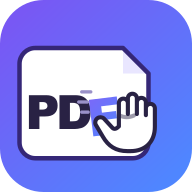
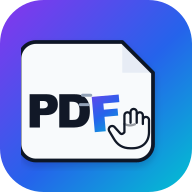
Apply Prism Ink branding

diff --git a/public/index.html b/public/index.html
@@ -8,15 +8,15 @@
 <link rel="icon" type="image/png" sizes="192x192" href="/icon-192.png" />
 <link rel="apple-touch-icon" href="/apple-touch-icon.png" />
 <link rel="manifest" href="/manifest.webmanifest" />
-<meta name="theme-color" content="#6A4CF0" />
+<meta name="theme-color" content="#5B3FD6" />
 <meta name="mobile-web-app-capable" content="yes" />
 <meta name="apple-mobile-web-app-capable" content="yes" />
 <meta name="apple-mobile-web-app-title" content="Signet" />
 <meta name="apple-mobile-web-app-status-bar-style" content="default" />
 <link href="./vendor/fonts.css" rel="stylesheet">
 <style>
-:root{--accent:#6A4CF0;--grad:linear-gradient(135deg,#6A4CF0,#4F86FF);--ink:#191b1f;--ink2:#24262c;--sub:#5b6068;--sub2:#7c8089;--sub3:#9aa0a8;
---line:#e7e8ec;--line2:#e2e3e8;--bg:#ecebef;--panel:#f7f7f9;--chip:#f2f2f5;
+:root{--accent:#5B3FD6;--grad:linear-gradient(135deg,#6D28D9 0%,#2563EB 58%,#0891B2 100%);--ink:#111827;--ink2:#1F2937;--sub:#566273;--sub2:#718096;--sub3:#94A3B8;
+--line:#DDE2EC;--line2:#D5DCE8;--bg:#E9EEF6;--panel:#F5F7FB;--chip:#EEF2F7;
 --good:#17936a;--warn:#b5760b;--bad:#dc2b3b;--badbg:#fbf5f5;--badline:#f0d9d9;}
 *{box-sizing:border-box;}
 [hidden]{display:none !important;}
@@ -26,7 +26,7 @@ button{font:inherit;cursor:pointer;}
 input,select,textarea{font:inherit;}
 .btn{height:36px;padding:0 14px;border:1px solid var(--line2);border-radius:8px;background:#fff;color:var(--ink2);font-size:13px;font-weight:600;display:inline-flex;align-items:center;gap:7px;}
 .btn:hover{background:#f7f7f9;}
-.btn.primary{background:var(--grad);border-color:transparent;color:#fff;box-shadow:0 1px 2px rgba(106,76,240,.35);}
+.btn.primary{background:var(--grad);border-color:transparent;color:#fff;box-shadow:0 1px 2px rgba(37,99,235,.32);}
 .btn.primary:hover{filter:brightness(1.06);}
 .btn.danger{background:var(--bad);border-color:var(--bad);color:#fff;}
 .btn.danger:hover{filter:brightness(1.06);}
@@ -39,7 +39,7 @@ input[type=text],input[type=email],input[type=number],input[type=password],selec
 .hint{font-size:12px;color:var(--sub2);line-height:1.5;}
 
 #loginScreen{position:fixed;inset:0;z-index:70;min-height:100vh;display:flex;flex-direction:column;align-items:center;justify-content:center;gap:20px;
-  background:radial-gradient(120% 120% at 15% 0%,#3a2a72 0%,#201a3a 45%,#14111f 100%);}
+  background:radial-gradient(120% 120% at 15% 0%,#4C1D95 0%,#172554 48%,#0F172A 100%);}
 #loginScreen[hidden]{display:none;}
 #loginScreen .logomark.big{margin-bottom:0;}
 #loginScreen .box{position:relative;background:#fff;padding:32px;border-radius:16px;width:320px;text-align:center;box-shadow:0 24px 60px rgba(0,0,0,.4);}
@@ -57,7 +57,7 @@ header.topbar{height:56px;flex:0 0 56px;display:flex;align-items:center;gap:14px
 .logomark{background:var(--grad);display:inline-flex;align-items:center;justify-content:center;flex:0 0 auto;border-radius:7px;}
 .logomark svg{width:66%;height:66%;display:block;}
 .logomark.hdr{width:26px;height:26px;}
-.logomark.big{width:64px;height:64px;border-radius:16px;box-shadow:0 10px 26px rgba(106,76,240,.4);}
+.logomark.big{width:64px;height:64px;border-radius:16px;box-shadow:0 10px 26px rgba(37,99,235,.36);}
 .vdiv{width:1px;height:24px;background:var(--line);}
 .doctitle{font-size:13.5px;font-weight:600;color:var(--ink2);white-space:nowrap;overflow:hidden;text-overflow:ellipsis;max-width:320px;}
 .chip{font-size:11px;color:var(--sub3);background:var(--chip);padding:2px 8px;border-radius:5px;font-weight:600;}
@@ -67,7 +67,7 @@ header.topbar{height:56px;flex:0 0 56px;display:flex;align-items:center;gap:14px
 nav.rail{flex:0 0 60px;background:#fff;border-right:1px solid var(--line);display:flex;flex-direction:column;align-items:center;gap:4px;padding:10px 0;overflow-y:auto;}
 nav.rail .railbtn{width:44px;height:44px;border:none;border-radius:9px;color:var(--sub);background:transparent;display:flex;align-items:center;justify-content:center;}
 nav.rail .railbtn:hover{background:var(--chip);}
-nav.rail .railbtn.active{background:var(--grad);color:#fff;box-shadow:0 2px 9px rgba(106,76,240,.34);}
+nav.rail .railbtn.active{background:var(--grad);color:#fff;box-shadow:0 2px 9px rgba(37,99,235,.30);}
 nav.rail .railbtn svg{width:22px;height:22px;display:block;}
 nav.rail .raildiv{width:28px;height:1px;background:#eeeef1;margin:5px 0;}
 nav.rail .railbtn{position:relative;}
@@ -82,7 +82,7 @@ aside.thumbs .thead{font-size:11px;font-weight:700;letter-spacing:.06em;text-tra
 .thumb{width:118px;border:none;background:transparent;padding:0;display:flex;flex-direction:column;align-items:center;gap:5px;}
 .thumb .card{width:118px;border:1px solid #dfe0e6;border-radius:3px;box-shadow:0 1px 3px rgba(0,0,0,.06);overflow:hidden;background:#fff;cursor:grab;}
 .thumb .card canvas{width:100%;display:block;}
-.thumb.current .card{box-shadow:0 0 0 2px var(--accent),0 2px 8px rgba(106,76,240,.2);}
+.thumb.current .card{box-shadow:0 0 0 2px var(--accent),0 2px 8px rgba(37,99,235,.18);}
 .thumb .lbl{font-size:11px;color:var(--sub3);font-weight:500;}
 .thumb.current .lbl{color:var(--accent);font-weight:700;}
 .addpages{width:118px;height:40px;margin:6px auto 0;border:1px dashed #d3d4db;border-radius:8px;background:#fbfbfc;font-size:11.5px;color:var(--sub);}
@@ -126,14 +126,14 @@ aside.props{flex:0 0 300px;background:#fff;border-left:1px solid var(--line);ove
 .tabbtns{display:flex;gap:6px;margin-bottom:14px;}
 .tabbtns button{flex:1;background:var(--chip);border:none;padding:8px 0;border-radius:7px;font-size:12.5px;}
 .tabbtns button.active{background:var(--ink);color:#fff;}
-.marker{position:absolute;border:1.5px dashed var(--accent);background:rgba(106,76,240,.1);font-size:9px;color:var(--accent);display:flex;align-items:center;justify-content:center;cursor:pointer;}
+.marker{position:absolute;border:1.5px dashed var(--accent);background:rgba(91,63,214,.1);font-size:9px;color:var(--accent);display:flex;align-items:center;justify-content:center;cursor:pointer;}
 .textmarker{font-family:Helvetica,Arial,sans-serif;cursor:text;min-width:6px;z-index:3;}
 .edittext{position:absolute;white-space:pre-wrap;overflow:hidden;outline:none;line-height:1.05;font-family:Helvetica,Arial,sans-serif;color:#0d0d14;cursor:text;box-sizing:border-box;padding:0 1px;z-index:3;}
 .edittext:focus{box-shadow:0 0 0 1.5px var(--accent);background:#fff !important;color:#0d0d14 !important;}
 .x{position:absolute;width:16px;height:16px;border-radius:50%;border:none;background:var(--bad);color:#fff;font-size:10px;line-height:1;z-index:6;padding:0;}
 .marker .x{top:-8px;right:-8px;}
-.selframe{position:absolute;border:1px dashed var(--accent);background:rgba(106,76,240,.05);cursor:move;z-index:4;}
-.selframe.sel{border:2px solid var(--accent);background:rgba(106,76,240,.1);}
+.selframe{position:absolute;border:1px dashed var(--accent);background:rgba(91,63,214,.05);cursor:move;z-index:4;}
+.selframe.sel{border:2px solid var(--accent);background:rgba(91,63,214,.1);}
 .selframe .rz{position:absolute;right:-6px;bottom:-6px;width:12px;height:12px;border-radius:50%;background:#fff;border:1.5px solid var(--accent);cursor:nwse-resize;z-index:7;}
 canvas#sigPad{border:1px solid var(--line2);border-radius:8px;cursor:crosshair;touch-action:none;background:#fbfbfc;width:100%;}
 
@@ -335,7 +335,7 @@ canvas#sigPad{border:1px solid var(--line2);border-radius:8px;cursor:crosshair;t
 <body>
 
 <div id="loginScreen" hidden>
-  <svg class="pdflogo" viewBox="0 0 340 120" fill="none" xmlns="http://www.w3.org/2000/svg" aria-hidden="true"><defs><linearGradient id="plg2" x1="185" y1="22" x2="275" y2="100" gradientUnits="userSpaceOnUse"><stop stop-color="#8A68FF"/><stop offset="1" stop-color="#4F86FF"/></linearGradient></defs><text x="5" y="88" font-family="'Hanken Grotesk',Arial,sans-serif" font-weight="800" font-size="88" letter-spacing="-4" fill="currentColor">PD</text><path d="M174 43h21M168 59h19M176 75h14" stroke="currentColor" stroke-width="5" stroke-linecap="round" opacity=".32"/><g transform="rotate(-7 229 61)"><text x="190" y="91" font-family="'Hanken Grotesk',Arial,sans-serif" font-weight="800" font-size="91" letter-spacing="-4" fill="url(#plg2)">F</text></g><g stroke="currentColor" stroke-width="6.5" stroke-linecap="round" stroke-linejoin="round"><path d="M257 69V45a7 7 0 0 1 14 0v15-22a7 7 0 0 1 14 0v22-16a7 7 0 0 1 14 0v21-11a7 7 0 0 1 14 0v27c0 21-13 32-32 32h-5c-16 0-26-7-34-20l-11-18a8 8 0 0 1 13-9z"/><path d="M255 62c8 4 17 4 25 0" opacity=".55"/></g></svg>
+  <svg class="pdflogo" viewBox="0 0 340 120" fill="none" xmlns="http://www.w3.org/2000/svg" aria-hidden="true"><defs><linearGradient id="plg2" x1="185" y1="22" x2="275" y2="100" gradientUnits="userSpaceOnUse"><stop stop-color="#7C3AED"/><stop offset="1" stop-color="#06B6D4"/></linearGradient></defs><text x="5" y="88" font-family="'Hanken Grotesk',Arial,sans-serif" font-weight="800" font-size="88" letter-spacing="-4" fill="currentColor">PD</text><path d="M174 43h21M168 59h19M176 75h14" stroke="currentColor" stroke-width="5" stroke-linecap="round" opacity=".32"/><g transform="rotate(-7 229 61)"><text x="190" y="91" font-family="'Hanken Grotesk',Arial,sans-serif" font-weight="800" font-size="91" letter-spacing="-4" fill="url(#plg2)">F</text></g><g stroke="currentColor" stroke-width="6.5" stroke-linecap="round" stroke-linejoin="round"><path d="M257 69V45a7 7 0 0 1 14 0v15-22a7 7 0 0 1 14 0v22-16a7 7 0 0 1 14 0v21-11a7 7 0 0 1 14 0v27c0 21-13 32-32 32h-5c-16 0-26-7-34-20l-11-18a8 8 0 0 1 13-9z"/><path d="M255 62c8 4 17 4 25 0" opacity=".55"/></g></svg>
   <div class="box">
     <button id="loginCancel" title="Close" aria-label="Close">&times;</button>
     <h1>Signet<span style="color:var(--accent)">.</span></h1>
@@ -350,7 +350,7 @@ canvas#sigPad{border:1px solid var(--line2);border-radius:8px;cursor:crosshair;t
   <header class="topbar">
     <button class="icon-btn mobile-only" id="pagesToggle" title="Pages" hidden>
       <svg viewBox="0 0 24 24" width="20" height="20" fill="none" stroke="currentColor" stroke-width="1.8" stroke-linecap="round" stroke-linejoin="round"><rect x="4" y="4" width="7" height="7" rx="1"/><rect x="13" y="4" width="7" height="7" rx="1"/><rect x="4" y="13" width="7" height="7" rx="1"/><rect x="13" y="13" width="7" height="7" rx="1"/></svg></button>
-    <div class="brand"><svg class="pdflogo" viewBox="0 0 340 120" fill="none" xmlns="http://www.w3.org/2000/svg" aria-label="PDF editor"><defs><linearGradient id="plg" x1="185" y1="22" x2="275" y2="100" gradientUnits="userSpaceOnUse"><stop stop-color="#8A68FF"/><stop offset="1" stop-color="#4F86FF"/></linearGradient></defs><text x="5" y="88" font-family="'Hanken Grotesk',Arial,sans-serif" font-weight="800" font-size="88" letter-spacing="-4" fill="currentColor">PD</text><path d="M174 43h21M168 59h19M176 75h14" stroke="currentColor" stroke-width="5" stroke-linecap="round" opacity=".32"/><g transform="rotate(-7 229 61)"><text x="190" y="91" font-family="'Hanken Grotesk',Arial,sans-serif" font-weight="800" font-size="91" letter-spacing="-4" fill="url(#plg)">F</text></g><g stroke="currentColor" stroke-width="6.5" stroke-linecap="round" stroke-linejoin="round"><path d="M257 69V45a7 7 0 0 1 14 0v15-22a7 7 0 0 1 14 0v22-16a7 7 0 0 1 14 0v21-11a7 7 0 0 1 14 0v27c0 21-13 32-32 32h-5c-16 0-26-7-34-20l-11-18a8 8 0 0 1 13-9z"/><path d="M255 62c8 4 17 4 25 0" opacity=".55"/></g></svg><span class="desktop-only" style="font-size:19px;font-weight:700;letter-spacing:-.01em">Signet<span style="color:var(--accent)">.</span></span></div>
+    <div class="brand"><svg class="pdflogo" viewBox="0 0 340 120" fill="none" xmlns="http://www.w3.org/2000/svg" aria-label="PDF editor"><defs><linearGradient id="plg" x1="185" y1="22" x2="275" y2="100" gradientUnits="userSpaceOnUse"><stop stop-color="#7C3AED"/><stop offset="1" stop-color="#06B6D4"/></linearGradient></defs><text x="5" y="88" font-family="'Hanken Grotesk',Arial,sans-serif" font-weight="800" font-size="88" letter-spacing="-4" fill="currentColor">PD</text><path d="M174 43h21M168 59h19M176 75h14" stroke="currentColor" stroke-width="5" stroke-linecap="round" opacity=".32"/><g transform="rotate(-7 229 61)"><text x="190" y="91" font-family="'Hanken Grotesk',Arial,sans-serif" font-weight="800" font-size="91" letter-spacing="-4" fill="url(#plg)">F</text></g><g stroke="currentColor" stroke-width="6.5" stroke-linecap="round" stroke-linejoin="round"><path d="M257 69V45a7 7 0 0 1 14 0v15-22a7 7 0 0 1 14 0v22-16a7 7 0 0 1 14 0v21-11a7 7 0 0 1 14 0v27c0 21-13 32-32 32h-5c-16 0-26-7-34-20l-11-18a8 8 0 0 1 13-9z"/><path d="M255 62c8 4 17 4 25 0" opacity=".55"/></g></svg><span class="desktop-only" style="font-size:19px;font-weight:700;letter-spacing:-.01em">Signet<span style="color:var(--accent)">.</span></span></div>
     <div class="vdiv desktop-only"></div>
     <div class="row desktop-only" style="min-width:0">
       <span class="doctitle" id="docTitleLbl">No document loaded</span>
@@ -586,7 +586,7 @@ canvas#sigPad{border:1px solid var(--line2);border-radius:8px;cursor:crosshair;t
     <div class="canvaswrap">
       <div class="canvasscroll" id="canvasScroll">
         <div class="empty-state" id="emptyState">
-          <svg class="pdflogo" viewBox="0 0 340 120" fill="none" xmlns="http://www.w3.org/2000/svg" aria-hidden="true"><defs><linearGradient id="plg3" x1="185" y1="22" x2="275" y2="100" gradientUnits="userSpaceOnUse"><stop stop-color="#8A68FF"/><stop offset="1" stop-color="#4F86FF"/></linearGradient></defs><text x="5" y="88" font-family="'Hanken Grotesk',Arial,sans-serif" font-weight="800" font-size="88" letter-spacing="-4" fill="currentColor">PD</text><path d="M174 43h21M168 59h19M176 75h14" stroke="currentColor" stroke-width="5" stroke-linecap="round" opacity=".32"/><g transform="rotate(-7 229 61)"><text x="190" y="91" font-family="'Hanken Grotesk',Arial,sans-serif" font-weight="800" font-size="91" letter-spacing="-4" fill="url(#plg3)">F</text></g><g stroke="currentColor" stroke-width="6.5" stroke-linecap="round" stroke-linejoin="round"><path d="M257 69V45a7 7 0 0 1 14 0v15-22a7 7 0 0 1 14 0v22-16a7 7 0 0 1 14 0v21-11a7 7 0 0 1 14 0v27c0 21-13 32-32 32h-5c-16 0-26-7-34-20l-11-18a8 8 0 0 1 13-9z"/><path d="M255 62c8 4 17 4 25 0" opacity=".55"/></g></svg>
+          <svg class="pdflogo" viewBox="0 0 340 120" fill="none" xmlns="http://www.w3.org/2000/svg" aria-hidden="true"><defs><linearGradient id="plg3" x1="185" y1="22" x2="275" y2="100" gradientUnits="userSpaceOnUse"><stop stop-color="#7C3AED"/><stop offset="1" stop-color="#06B6D4"/></linearGradient></defs><text x="5" y="88" font-family="'Hanken Grotesk',Arial,sans-serif" font-weight="800" font-size="88" letter-spacing="-4" fill="currentColor">PD</text><path d="M174 43h21M168 59h19M176 75h14" stroke="currentColor" stroke-width="5" stroke-linecap="round" opacity=".32"/><g transform="rotate(-7 229 61)"><text x="190" y="91" font-family="'Hanken Grotesk',Arial,sans-serif" font-weight="800" font-size="91" letter-spacing="-4" fill="url(#plg3)">F</text></g><g stroke="currentColor" stroke-width="6.5" stroke-linecap="round" stroke-linejoin="round"><path d="M257 69V45a7 7 0 0 1 14 0v15-22a7 7 0 0 1 14 0v22-16a7 7 0 0 1 14 0v21-11a7 7 0 0 1 14 0v27c0 21-13 32-32 32h-5c-16 0-26-7-34-20l-11-18a8 8 0 0 1 13-9z"/><path d="M255 62c8 4 17 4 25 0" opacity=".55"/></g></svg>
           <h2>Open a document and start editing</h2>
           <p>Drop files here, or choose them below. Select several files to combine them in order.</p>
           <label class="btn primary open-file" for="fileInput">Choose files</label>

diff --git a/public/app.js b/public/app.js
@@ -11,13 +11,13 @@ document.querySelectorAll(".pdflogo").forEach((oldLogo, i) => {
   const aria = label ? `role="img" aria-label="${escapeHtml(label)}"` : 'aria-hidden="true"';
   const mark = document.createElement("span");
   mark.innerHTML = `<svg class="pdflogo" viewBox="0 0 272 100" fill="none" xmlns="http://www.w3.org/2000/svg" ${aria}>
-    <defs><linearGradient id="logoGradient${i}" x1="117" y1="18" x2="176" y2="82" gradientUnits="userSpaceOnUse"><stop stop-color="#8A68FF"/><stop offset="1" stop-color="#4F86FF"/></linearGradient></defs>
+    <defs><linearGradient id="logoGradient${i}" x1="108" y1="18" x2="172" y2="82" gradientUnits="userSpaceOnUse"><stop stop-color="#7C3AED"/><stop offset=".55" stop-color="#2563EB"/><stop offset="1" stop-color="#06B6D4"/></linearGradient></defs>
     <text x="2" y="75" font-family="'Hanken Grotesk',Arial,sans-serif" font-weight="800" font-size="74" letter-spacing="-4" fill="currentColor">PD</text>
-    <path d="M107 37h14M103 50h13M108 63h10" stroke="currentColor" stroke-width="4" stroke-linecap="round" opacity=".28"/>
-    <g transform="rotate(-6 145 52)"><text x="116" y="77" font-family="'Hanken Grotesk',Arial,sans-serif" font-weight="800" font-size="76" letter-spacing="-3" fill="url(#logoGradient${i})">F</text></g>
-    <g stroke="currentColor" stroke-width="4.3" stroke-linecap="round" stroke-linejoin="round">
-      <path d="M172 57V38a5.2 5.2 0 0 1 10.4 0v11-17a5.2 5.2 0 0 1 10.4 0v17-13a5.2 5.2 0 0 1 10.4 0v14-8a5.2 5.2 0 0 1 10.4 0v20c0 16-10.5 26-27.2 26h-3.5c-13 0-21.2-5.5-27.2-16l-8-13.5a6.2 6.2 0 0 1 9.9-7.2l9.3 10.3c2 2.2 3.8 1.7 5.3-.4z"/>
-      <path d="M172 51c5.2 2.6 10.5 2.7 15.8.2" opacity=".45"/>
+    <path d="M104 43h12M101 55h11" stroke="currentColor" stroke-width="3.6" stroke-linecap="round" opacity=".3"/>
+    <g transform="rotate(-5 137 52)"><text x="108" y="77" font-family="'Hanken Grotesk',Arial,sans-serif" font-weight="800" font-size="76" letter-spacing="-3" fill="url(#logoGradient${i})">F</text></g>
+    <g stroke="currentColor" stroke-width="3.8" stroke-linecap="round" stroke-linejoin="round">
+      <path d="M163 58V41a4.8 4.8 0 0 1 9.6 0v10-15a4.8 4.8 0 0 1 9.6 0v15-11a4.8 4.8 0 0 1 9.6 0v12-6a4.8 4.8 0 0 1 9.6 0v17c0 14-9.2 23-23.8 23h-3c-11.5 0-18.7-4.8-24-14l-7-11.8a5.6 5.6 0 0 1 8.9-6.5l8.2 9c1.7 2 3.3 1.5 4.3-.3z"/>
+      <path d="M163 53c4.6 2.3 9.3 2.4 13.9.2" opacity=".42"/>
     </g>
   </svg>`;
   oldLogo.replaceWith(mark.firstElementChild);
@@ -94,11 +94,11 @@ const tk = {
   activeText: null,
   pendingImage: null,
   ink: { color: "#dc2b3b", width: 3 },
-  shape: { type: "rect", color: "#6A4CF0", fill: false, width: 2 },
+  shape: { type: "rect", color: "#5B3FD6", fill: false, width: 2 },
   placeArmed: false,
   autoFit: true,
 };
-const RECIPIENT_COLORS = ["#6A4CF0", "#17936a", "#b5760b", "#dc2b3b", "#7a3fb5"];
+const RECIPIENT_COLORS = ["#5B3FD6", "#0F9F74", "#D97706", "#DC2B3B", "#2563EB"];
 const SVG_NS = "http://www.w3.org/2000/svg";
 // pdf.js render scale: canvas px = PDF points * RENDER_SCALE. Used to keep on-canvas text
 // sizing and vector stroke widths visually consistent with the exported PDF.
@@ -903,7 +903,7 @@ function drawEditTextMarker(box, a) {
   m.textContent = a.text;
   // Until a line is edited it shows the real page underneath (transparent text over a faint
   // tint); editing/focusing reveals the text on an opaque white patch (see .edittext:focus).
-  m.style.background = a.dirty ? "#fff" : (editable ? "rgba(106,76,240,.07)" : "transparent");
+  m.style.background = a.dirty ? "#fff" : (editable ? "rgba(91,63,214,.07)" : "transparent");
   m.style.color = a.dirty ? "#0d0d14" : "transparent";
   a._el = m;
   if (editable) {
@@ -1254,7 +1254,7 @@ function buildDrawPanel(body) {
     <div class="swrow">
       <button class="sw" data-c="#dc2b3b" style="background:#dc2b3b"></button>
       <button class="sw" data-c="#191b1f" style="background:#191b1f"></button>
-      <button class="sw" data-c="#6A4CF0" style="background:#6A4CF0"></button>
+      <button class="sw" data-c="#5B3FD6" style="background:#5B3FD6"></button>
       <button class="sw" data-c="#17936a" style="background:#17936a"></button>
       <input type="color" id="inkCustom" value="${tk.ink.color}" style="width:32px;height:32px;border:1px solid var(--line2);border-radius:7px;padding:2px" />
     </div>
@@ -1275,7 +1275,7 @@ function buildShapePanel(body) {
     </div>
     <div class="label">Color</div>
     <div class="swrow">
-      <button class="sw" data-c="#6A4CF0" style="background:#6A4CF0"></button>
+      <button class="sw" data-c="#5B3FD6" style="background:#5B3FD6"></button>
       <button class="sw" data-c="#dc2b3b" style="background:#dc2b3b"></button>
       <button class="sw" data-c="#191b1f" style="background:#191b1f"></button>
       <button class="sw" data-c="#17936a" style="background:#17936a"></button>
@@ -1783,8 +1783,8 @@ const STATUS_LABEL = {
   completed: "Completed", voided: "Voided", declined: "Declined",
 };
 const STATUS_COLOR = {
-  draft: ["#eef2f6", "#5b6068"], sent: ["#eef1ff", "#6A4CF0"], partially_signed: ["#fff3e0", "#b5760b"],
-  completing: ["#eef1ff", "#6A4CF0"], delivery_partial: ["#fff3e0", "#b5760b"], delivery_failed: ["#fbf5f5", "#dc2b3b"],
+  draft: ["#EEF2F7", "#566273"], sent: ["#EEF2FF", "#5B3FD6"], partially_signed: ["#FFF3E0", "#D97706"],
+  completing: ["#EEF2FF", "#5B3FD6"], delivery_partial: ["#FFF3E0", "#D97706"], delivery_failed: ["#FBF5F5", "#DC2B3B"],
   completed: ["#e4f6ea", "#17936a"], voided: ["#fbf5f5", "#dc2b3b"], declined: ["#fbf5f5", "#dc2b3b"],
 };
 const envelopesPanel = $("envelopesPanelBack");

diff --git a/public/sign.html b/public/sign.html
@@ -6,11 +6,11 @@
 <title>Sign document — Signet</title>
 <link rel="icon" type="image/svg+xml" href="/icon.svg" />
 <link rel="apple-touch-icon" href="/apple-touch-icon.png" />
-<meta name="theme-color" content="#6A4CF0" />
+<meta name="theme-color" content="#5B3FD6" />
 <link href="./vendor/fonts.css" rel="stylesheet">
 <style>
   /* Palette mirrors the main editor (public/index.html) so the signer sees one brand. */
-  :root { --accent:#6A4CF0; --grad:linear-gradient(135deg,#6A4CF0,#4F86FF); --ink:#191b1f; --ink2:#24262c; --sub:#5b6068; --sub2:#7c8089; --line:#e7e8ec; --line2:#e2e3e8; --bg:#ecebef; --good:#17936a; --bad:#dc2b3b; }
+  :root { --accent:#5B3FD6; --grad:linear-gradient(135deg,#6D28D9 0%,#2563EB 58%,#0891B2 100%); --ink:#111827; --ink2:#1F2937; --sub:#566273; --sub2:#718096; --line:#DDE2EC; --line2:#D5DCE8; --bg:#E9EEF6; --good:#0F9F74; --bad:#dc2b3b; }
   * { box-sizing:border-box; }
   [hidden] { display:none !important; }  /* modal-back sets display:flex, which otherwise overrides the hidden attribute */
   body { margin:0; font-family:'Hanken Grotesk',system-ui,sans-serif; background:var(--bg); color:var(--ink); -webkit-font-smoothing:antialiased; }
@@ -24,7 +24,7 @@
   .banner { background:#fff; border:1px solid var(--line); border-radius:12px; padding:14px 16px; margin-bottom:16px; font-size:13.5px; color:var(--sub); line-height:1.5; }
   .page-wrap { position:relative; margin:0 auto 18px; border:1px solid var(--line); background:#fff; box-shadow:0 6px 26px rgba(20,22,30,.1); }
   .page-wrap canvas { display:block; width:100%; }
-  .field { position:absolute; border:2px solid var(--accent); background:rgba(106,76,240,.08); border-radius:5px; display:flex; align-items:center; justify-content:center; cursor:pointer; overflow:hidden; }
+  .field { position:absolute; border:2px solid var(--accent); background:rgba(91,63,214,.08); border-radius:5px; display:flex; align-items:center; justify-content:center; cursor:pointer; overflow:hidden; }
   .field.filled { border-color:var(--good); background:rgba(23,147,106,.08); }
   .field img { max-width:100%; max-height:100%; }
   .field input[type=text] { border:none; background:transparent; width:100%; height:100%; padding:2px 4px; font-size:13px; font-family:inherit; }
@@ -33,7 +33,7 @@
   .field input[type=checkbox] { width:18px; height:18px; accent-color:var(--accent); }
 
   .footbar { position:fixed; bottom:0; left:0; right:0; background:#fff; border-top:1px solid var(--line); padding:12px 20px; display:flex; justify-content:space-between; align-items:center; gap:10px; }
-  .btn { background:var(--grad); color:#fff; border:none; padding:11px 20px; border-radius:8px; cursor:pointer; font-size:14px; font-weight:600; box-shadow:0 1px 2px rgba(106,76,240,.35); }
+  .btn { background:var(--grad); color:#fff; border:none; padding:11px 20px; border-radius:8px; cursor:pointer; font-size:14px; font-weight:600; box-shadow:0 1px 2px rgba(37,99,235,.32); }
   .btn:hover:not(:disabled) { filter:brightness(1.06); }
   .btn.secondary { background:var(--chip,#f2f2f5); color:var(--ink2); box-shadow:none; }
   .btn.danger { background:#fbf5f5; color:var(--bad); box-shadow:none; }

diff --git a/desktop/offline.html b/desktop/offline.html
@@ -10,7 +10,7 @@
     body{min-height:100vh;margin:0;display:grid;place-items:center}
     main{width:min(420px,calc(100vw - 48px));padding:42px;text-align:center;background:#fff;border:1px solid #e2e3e8;border-radius:18px;box-shadow:0 18px 50px rgba(20,22,30,.14)}
     img{width:88px;height:88px} h1{margin:18px 0 8px;font-size:24px} p{margin:0 0 22px;color:#6d727b;line-height:1.5}
-    button{border:0;border-radius:9px;padding:11px 20px;color:#fff;font:600 14px inherit;background:linear-gradient(135deg,#6a4cf0,#4f86ff);cursor:pointer}
+    button{border:0;border-radius:9px;padding:11px 20px;color:#fff;font:600 14px inherit;background:linear-gradient(135deg,#6d28d9,#2563eb 58%,#0891b2);cursor:pointer}
   </style>
 </head>
 <body>
